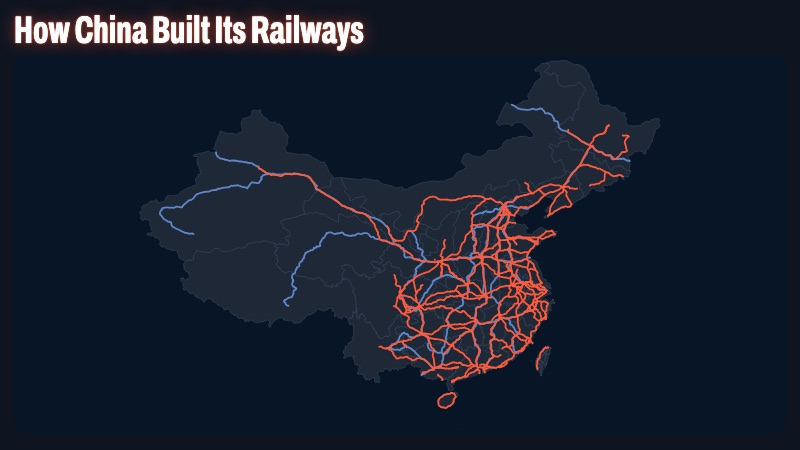
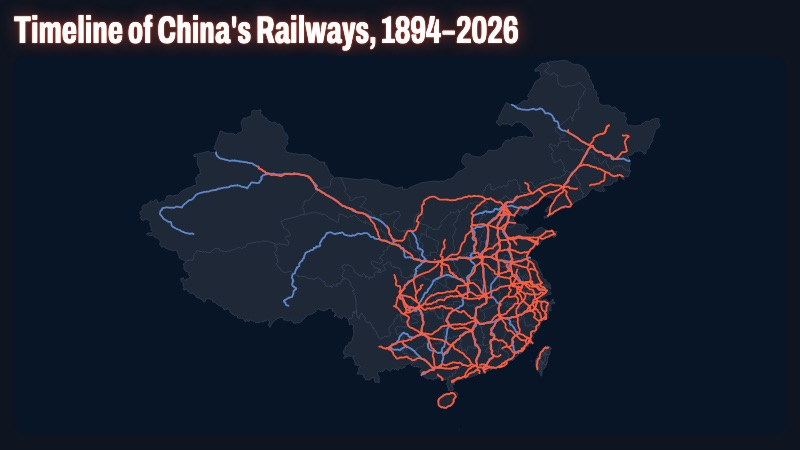
Rail maps: rename to "Timeline of …" titles
"Timeline of America's Railways, 1830–2026" and "Timeline of China's
Railways, 1894–2026": page titles, headings, link previews, JSON-LD,
catalog cards, Transport and main page listings, thumbnails.

Changed region(s): [[0.0, 0.0, 0.6562, 0.1244]]

diff --git a/transport/usa-railways/index.html b/transport/usa-railways/index.html
@@ -9,7 +9,7 @@
 <meta name="description" content="Animated map of the United States' railways: the conventional network spreading west from 1830 to 1911 in blue, reaching about 338,000 km, then the high-speed lines in red from 2000 (Acela, Brightline). Data: Jeremy Atack (Vanderbilt), OpenStreetMap.">
 <meta property="og:type" content="website">
 <meta property="og:site_name" content="Interactive Charts">
-<meta property="og:title" content="How America Built Its Railways">
+<meta property="og:title" content="Timeline of America's Railways, 1830–2026">
 <meta property="og:description" content="Animated map of the United States' railways: the conventional network spreading west from 1830 to 1911 in blue, reaching about 338,000 km, then the high-speed lines in red from 2000 (Acela, Brightline). Data: Jeremy Atack (Vanderbilt), OpenStreetMap.">
 <meta property="og:url" content="https://mekhatria.github.io/interactive-chart/transport/usa-railways/">
 <meta property="og:image" content="https://mekhatria.github.io/interactive-chart/thumbs/usa-railways.jpg">
@@ -25,8 +25,8 @@
       "@type": "WebPage",
       "@id": "https://mekhatria.github.io/interactive-chart/transport/usa-railways/",
       "url": "https://mekhatria.github.io/interactive-chart/transport/usa-railways/",
-      "name": "How America Built Its Railways",
-      "headline": "How America Built Its Railways",
+      "name": "Timeline of America's Railways, 1830–2026",
+      "headline": "Timeline of America's Railways, 1830–2026",
       "description": "Animated map of the United States' railways: the conventional network spreading west from 1830 to 1911 in blue, reaching about 338,000 km, then the high-speed lines in red from 2000 (Acela, Brightline). Data: Jeremy Atack (Vanderbilt), OpenStreetMap.",
       "inLanguage": "en",
       "image": "https://mekhatria.github.io/interactive-chart/thumbs/usa-railways.jpg",
@@ -77,7 +77,7 @@
       ],
       "mainEntity": {
         "@type": "Dataset",
-        "name": "How America Built Its Railways (data)",
+        "name": "Timeline of America's Railways, 1830–2026 (data)",
         "description": "US railroads in operation by year, 1830–1911, and today's high-speed lines (Acela, Brightline) with opening years.",
         "creator": [
           {
@@ -117,7 +117,7 @@
           {
             "@type": "ListItem",
             "position": 3,
-            "name": "How America Built Its Railways",
+            "name": "Timeline of America's Railways, 1830–2026",
             "item": "https://mekhatria.github.io/interactive-chart/transport/usa-railways/"
           }
         ]
@@ -149,7 +149,7 @@
   ]
 }
 </script>
-<title>How America Built Its Railways</title>
+<title>Timeline of America's Railways, 1830–2026</title>
 <link rel="preconnect" href="https://fonts.googleapis.com">
 <link rel="preconnect" href="https://fonts.gstatic.com" crossorigin>
 <link href="https://fonts.googleapis.com/css2?family=Archivo:wdth,wght@62..125,300..800&display=swap" rel="stylesheet">
@@ -230,7 +230,7 @@ footer a{color:var(--soft)}
 <main>
   <div class="card">
     <header>
-      <h1>How America Built Its Railways</h1>
+      <h1>Timeline of America's Railways, 1830–2026</h1>
       <div class="year" aria-live="polite"><div class="k">Year</div><div class="v" id="year">1830</div></div>
     </header>
 

diff --git a/transport/china-high-speed-rail/index.html b/transport/china-high-speed-rail/index.html
@@ -9,7 +9,7 @@
 <meta name="description" content="Animated map of China's railways since the 1890s: the main conventional railway lines in blue, then the high-speed network in red from 2003, reaching about 40,500 km of high-speed track in the map data. Data: OpenStreetMap, Wikidata.">
 <meta property="og:type" content="website">
 <meta property="og:site_name" content="Interactive Charts">
-<meta property="og:title" content="How China Built Its Railways">
+<meta property="og:title" content="Timeline of China's Railways, 1894–2026">
 <meta property="og:description" content="Animated map of China's railways since the 1890s: the main conventional railway lines in blue, then the high-speed network in red from 2003, reaching about 40,500 km of high-speed track in the map data. Data: OpenStreetMap, Wikidata.">
 <meta property="og:url" content="https://mekhatria.github.io/interactive-chart/transport/china-high-speed-rail/">
 <meta property="og:image" content="https://mekhatria.github.io/interactive-chart/thumbs/china-high-speed-rail.jpg">
@@ -25,8 +25,8 @@
       "@type": "WebPage",
       "@id": "https://mekhatria.github.io/interactive-chart/transport/china-high-speed-rail/",
       "url": "https://mekhatria.github.io/interactive-chart/transport/china-high-speed-rail/",
-      "name": "How China Built Its Railways",
-      "headline": "How China Built Its Railways",
+      "name": "Timeline of China's Railways, 1894–2026",
+      "headline": "Timeline of China's Railways, 1894–2026",
       "description": "Animated map of China's railways since the 1890s: the main conventional railway lines in blue, then the high-speed network in red from 2003, reaching about 40,500 km of high-speed track in the map data. Data: OpenStreetMap, Wikidata.",
       "inLanguage": "en",
       "image": "https://mekhatria.github.io/interactive-chart/thumbs/china-high-speed-rail.jpg",
@@ -79,7 +79,7 @@
       ],
       "mainEntity": {
         "@type": "Dataset",
-        "name": "How China Built Its Railways (data)",
+        "name": "Timeline of China's Railways, 1894–2026 (data)",
         "description": "High-speed rail track in China (including Taiwan) and 28 main conventional railway lines, with opening years.",
         "creator": [
           {
@@ -115,7 +115,7 @@
           {
             "@type": "ListItem",
             "position": 3,
-            "name": "How China Built Its Railways",
+            "name": "Timeline of China's Railways, 1894–2026",
             "item": "https://mekhatria.github.io/interactive-chart/transport/china-high-speed-rail/"
           }
         ]
@@ -147,7 +147,7 @@
   ]
 }
 </script>
-<title>How China Built Its Railways</title>
+<title>Timeline of China's Railways, 1894–2026</title>
 <link rel="preconnect" href="https://fonts.googleapis.com">
 <link rel="preconnect" href="https://fonts.gstatic.com" crossorigin>
 <link href="https://fonts.googleapis.com/css2?family=Archivo:wdth,wght@62..125,300..800&display=swap" rel="stylesheet">
@@ -228,7 +228,7 @@ footer a{color:var(--soft)}
 <main>
   <div class="card">
     <header>
-      <h1>How China Built Its Railways</h1>
+      <h1>Timeline of China's Railways, 1894–2026</h1>
       <div class="year" aria-live="polite"><div class="k">Year</div><div class="v" id="year">1890</div></div>
     </header>
 

diff --git a/catalog.js b/catalog.js
@@ -25,12 +25,12 @@ window.CATALOG = {
 
   charts: [
     {
-      id: 'usa-railways', title: 'How America Built Its Railways', cats: ['transport'], isNew: true,
+      id: 'usa-railways', title: 'Timeline of America's Railways, 1830–2026', cats: ['transport'], isNew: true,
       tags: ['Map', 'Animated'], thumb: '/thumbs/usa-railways.jpg', href: '/transport/usa-railways/',
       desc: 'Watch US railroads spread west from 1830 to 1911, about 340,000 km of track, then the first high-speed lines: Acela and Brightline.'
     },
     {
-      id: 'china-high-speed-rail', title: "How China Built Its Railways", cats: ['transport'], isNew: true,
+      id: 'china-high-speed-rail', title: "Timeline of China's Railways, 1894–2026", cats: ['transport'], isNew: true,
       tags: ['Map', 'Animated'], thumb: '/thumbs/china-high-speed-rail.jpg', href: '/transport/china-high-speed-rail/',
       desc: 'China\'s railways from the 1890s: the great historic lines in blue, then the high-speed network in red from 2003, extending year by year.'
     },

diff --git a/index.html b/index.html
@@ -176,13 +176,13 @@
           {
             "@type": "ListItem",
             "position": 15,
-            "name": "How China Built Its Railways",
+            "name": "Timeline of China's Railways, 1894–2026",
             "url": "https://mekhatria.github.io/interactive-chart/transport/china-high-speed-rail/"
           },
           {
             "@type": "ListItem",
             "position": 16,
-            "name": "How America Built Its Railways",
+            "name": "Timeline of America's Railways, 1830–2026",
             "url": "https://mekhatria.github.io/interactive-chart/transport/usa-railways/"
           }
         ]

diff --git a/transport/index.html b/transport/index.html
@@ -49,13 +49,13 @@
             "@type": "ListItem",
             "position": 2,
             "url": "https://mekhatria.github.io/interactive-chart/transport/china-high-speed-rail/",
-            "name": "How China Built Its Railways"
+            "name": "Timeline of China's Railways, 1894–2026"
           },
           {
             "@type": "ListItem",
             "position": 3,
             "url": "https://mekhatria.github.io/interactive-chart/transport/usa-railways/",
-            "name": "How America Built Its Railways"
+            "name": "Timeline of America's Railways, 1830–2026"
           }
         ]
       },
